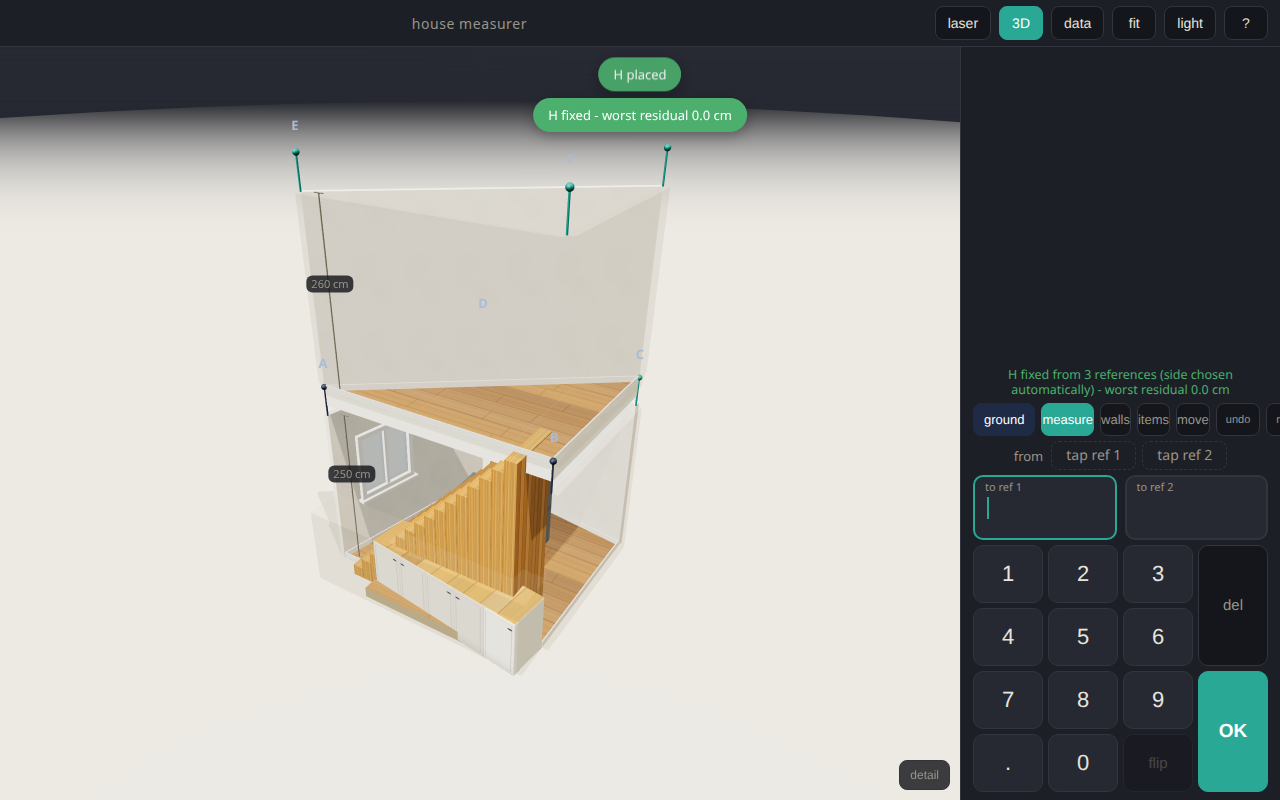
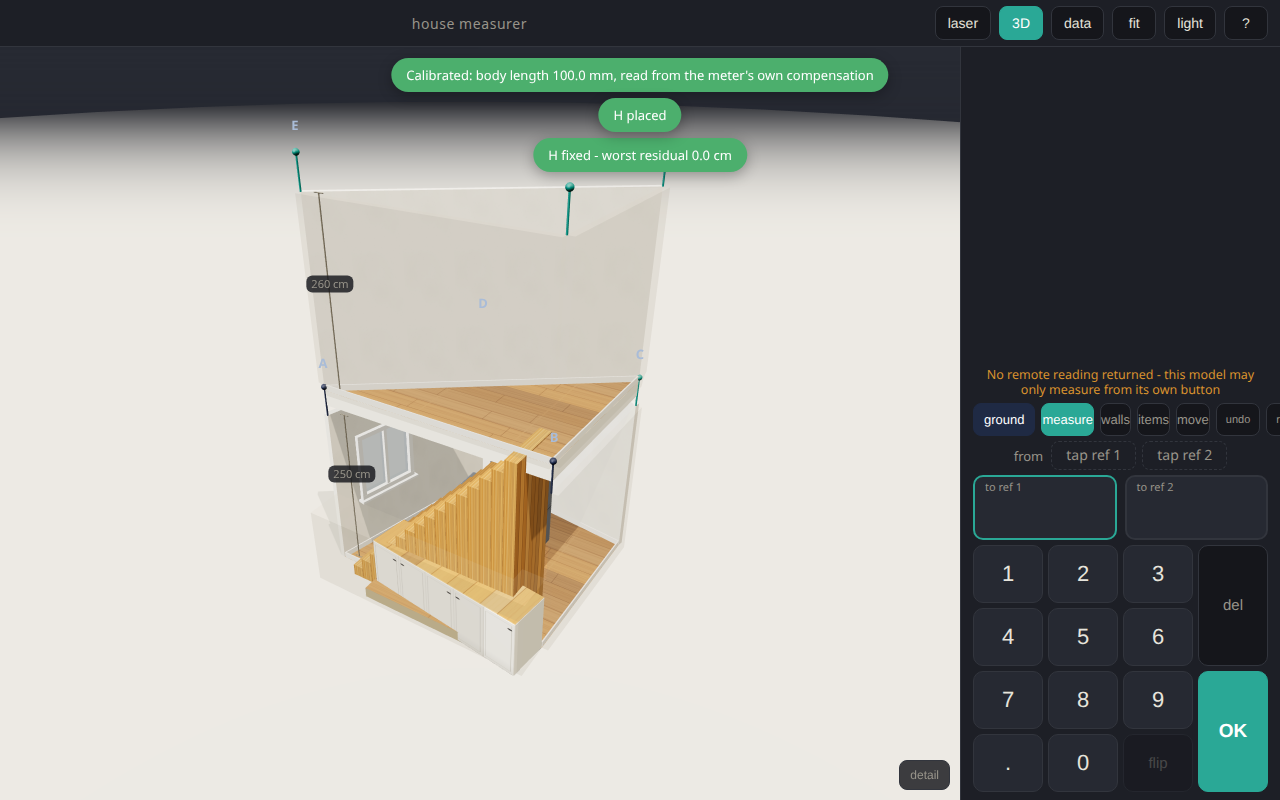
laser: one-tap offset calibration from the meter itself
The body length is not in any readable register (the settings query
returns empty), but the meter applies it to every back-edge button
reading. So the calibrate button in the laser panel derives it live:
prop the meter still, press its measure button once, the app fires a
remote shot and takes compensated-minus-raw as the offset. Plausible
results (2-35 cm) are set and persisted; anything else is rejected as
movement between the readings. Blocked while the meter reports
front-edge reference, since there is nothing to compensate there.

Measurement callbacks now carry the frame kind and pre-correction
value so the flow can tell button pushes from remote replies.

Changed region(s): [[0.3125, 0.0625, 0.6875, 0.2188], [0.7812, 0.4375, 0.9688, 0.5]]

diff --git a/index.html b/index.html
@@ -117,7 +117,9 @@
       <span class="log-name">remote shoot offset</span>
       <input id="laser-off" type="number" step="0.1" style="width:64px"> cm
       <button id="laser-setlo">set</button>
+      <button id="laser-cal" title="derive the offset from the meter itself: one button press, one remote shot">calibrate</button>
     </div>
+    <p class="dim" id="laser-cal-msg" hidden></p>
     <p class="dim" id="laser-hint">Readings land in the active input field. The shoot button (Bosch meters) fires remotely; those readings measure from the device front edge, so the offset above (its body length) is added to match back-edge readings. The meter broadcasts its reference-edge setting with every reading - if you switch it to front edge, the correction turns off by itself so button and remote readings keep agreeing.</p>
     <div class="row">
       <span class="log-name dim">recent protocol frames</span>
@@ -175,7 +177,7 @@
     <h2>bluetooth laser</h2>
     <p>Tap <b>laser</b> in the header to open the laser panel, then <b>connect</b> (Chrome, and the app must be on its https:// address or localhost). Each reading lands in the active field ready for OK. The panel also holds the remote-shoot offset and a log of recent protocol frames (copyable) so unknown meters can be given a decoder.</p>
     <p><b>Auto mode</b> (the <b>auto</b> toggle next to the reference slots, off by default): each laser reading advances the survey by itself. The number of selected references is the contract: with 2 selected, every pair of readings places a point; with 3 or 4 selected, every point takes that many readings and commits on the last one - then the next point begins automatically against the same references. The status line always names which reference to shoot next, and the phone buzzes: short tick = reading logged, triple = point placed, long = reading refused. A mis-fired shot is retracted with <b>del</b> (steps back one reading); Escape restarts the current fix. Every guard still applies: impossible pairs are refused with an explanation, flip swaps a wrong side, and undo unwinds anything.</p>
-    <p>The <b>shoot</b> button (Bosch meters) triggers a measurement remotely - the laser arms, then fires, with no button press to shake the aim. Remote readings measure from the device's FRONT edge, so a corrective offset (the body length, default 10 cm, adjustable in the laser panel) is added to match your usual back-edge readings. The device screen stays at 0 for remote shots - compare values in the app field instead. If the meter declines, the status says so.</p>
+    <p>The <b>shoot</b> button (Bosch meters) triggers a measurement remotely - the laser arms, then fires, with no button press to shake the aim. Remote readings measure from the device's FRONT edge, so a corrective offset (the body length, default 10 cm, adjustable in the laser panel) is added to match your usual back-edge readings. The device screen stays at 0 for remote shots - compare values in the app field instead. If the meter declines, the status says so. The <b>calibrate</b> button in the laser panel derives the offset from the meter itself: prop it still, press its measure button once, and the app fires a remote shot and reads the body length off the difference.</p>
     <p class="fine">Everything is saved on this device automatically. Export JSON from the log sheet for backup or to move devices.</p>
     <button id="clear-all">clear everything</button>
   </div>

diff --git a/js/main.js b/js/main.js
@@ -1834,8 +1834,9 @@ const buzz = (p) => {
 
 const laser = new LaserLink({
 
-  onMeasurement: (m) => {
+  onMeasurement: (m, meta = {}) => {
     buzz(25);
+    if (ui.laserCal) return laserCalStep(m, meta);
     const txt = m.toFixed(3).replace(/0+$/, '').replace(/\.$/, '.0');
     ui.fields[ui.active] = txt;
     const auto = ui.autoLaser === true;
@@ -1902,6 +1903,14 @@ function renderLaser() {
   refEl.textContent = ref === 'back' ? 'back edge' : ref === 'front' ? 'front edge'
     : ref ? `other (${ref})` : 'unknown';
   refEl.className = 'pill ' + (ref === 'back' ? 'on' : ref === 'front' ? 'warn' : 'off');
+  $('laser-cal').textContent = ui.laserCal ? 'cancel' : 'calibrate';
+  const calMsg = $('laser-cal-msg');
+  calMsg.hidden = !ui.laserCal;
+  if (ui.laserCal) {
+    calMsg.textContent = ui.laserCal.stage === 'button'
+      ? 'Prop the meter dead still against something solid, aim at a flat target, then press the meter\'s own measure button once.'
+      : 'Hold still - firing the remote shot...';
+  }
   $('laser-frames').textContent = laser.rawLog.length ? laser.rawLog.join('\n') : 'none yet';
 }
 
@@ -1933,6 +1942,58 @@ $('laser-copy').addEventListener('click', async () => {
   } catch {
     toast('Clipboard blocked - long-press the frame text to select it', 'warn');
   }
+});
+
+// Offset self-calibration: the meter's stored body length is not in any
+// readable register, but the meter APPLIES it to every back-edge button
+// reading. So: one compensated button reading minus one raw remote shot,
+// meter propped still in between = the constant the meter itself uses.
+function laserCalStep(m, meta) {
+  const cal = ui.laserCal;
+  if (cal.stage === 'button' && meta.kind === 'push') {
+    cal.stage = 'remote';
+    cal.push = m;
+    toast('Got the button reading - hold still...', 'good');
+    renderLaser();
+    laser.remoteTrigger();
+    cal.timer = setTimeout(() => {
+      if (ui.laserCal === cal) {
+        ui.laserCal = null;
+        toast('No remote reading came back - calibration cancelled', 'warn');
+        renderLaser();
+      }
+    }, 4000);
+    return;
+  }
+  if (cal.stage === 'remote' && meta.kind === 'remote') {
+    clearTimeout(cal.timer);
+    ui.laserCal = null;
+    const body = cal.push - meta.raw;
+    if (body > 0.02 && body < 0.35) {
+      laser.remoteOffset = Math.round(body * 10000) / 10000;
+      try { localStorage.setItem('house-measurer.laserOffset', String(laser.remoteOffset)); } catch {}
+      toast(`Calibrated: body length ${(body * 1000).toFixed(1)} mm, read from the meter's own compensation`, 'good');
+    } else {
+      toast(`Difference came out at ${(body * 1000).toFixed(0)} mm - implausible (meter moved?). Offset unchanged.`, 'err');
+    }
+    renderLaser();
+  }
+  // Anything else (a stray frame) is ignored until the expected one lands.
+}
+
+$('laser-cal').addEventListener('click', () => {
+  if (ui.laserCal) {
+    clearTimeout(ui.laserCal.timer);
+    ui.laserCal = null;
+    renderLaser();
+    return;
+  }
+  if (!laser.canTrigger) return toast('Calibration needs a connected Bosch meter', 'warn');
+  if (laser.deviceRef === 'front') {
+    return toast('Set the meter to back-edge reference first - on front edge there is nothing to compensate', 'warn');
+  }
+  ui.laserCal = { stage: 'button' };
+  renderLaser();
 });
 try {
   const lo = parseFloat(localStorage.getItem('house-measurer.laserOffset'));

diff --git a/js/laser.js b/js/laser.js
@@ -389,11 +389,13 @@ export class LaserLink {
     this.rawLog.push(hex);
     if (this.rawLog.length > 24) this.rawLog.shift();
     this.cb.onRaw?.(hex);
+    const isPush = bytes[0] === 0xc0 && bytes[1] === 0x55 && bytes[2] === 0x10 && bytes.length >= 11;
+    const isRemote = bytes[0] === 0x00 && bytes[1] === 0x04;
     // Push frames broadcast the meter's reference-edge setting in byte 3
     // (payload byte 0): 0x06 = back edge, 0x04 = front edge - confirmed
     // by flipping the setting on a real UniversalDistance 50C and
     // diffing the frames. Byte 5 is a rolling sequence counter.
-    if (bytes[0] === 0xc0 && bytes[1] === 0x55 && bytes[2] === 0x10 && bytes.length >= 11) {
+    if (isPush) {
       const ref = bytes[3] === 0x04 ? 'front' : bytes[3] === 0x06 ? 'back'
         : `0x${bytes[3].toString(16)}`;
       if (this.deviceRef && this.deviceRef !== ref) {
@@ -403,18 +405,22 @@ export class LaserLink {
     }
     let v = profile.parse(bytes);
     if (v == null) return;
+    const raw = v;
     // Remote-trigger replies (00 04 ...) always measure from the front
     // edge, so they get the body-length correction - except when the
     // meter itself is set to front edge, because then button readings
     // are front-edge too and raw remote values already match them.
-    if (this.boschChar && bytes[0] === 0x00 && bytes[1] === 0x04) {
-      if (this.deviceRef !== 'front') v += this.remoteOffset || 0;
+    if (this.boschChar && isRemote && this.deviceRef !== 'front') {
+      v += this.remoteOffset || 0;
     }
     // Meters often repeat frames; drop identical values arriving in a burst.
     const now = Date.now();
     if (this._lastValue === v && now - this._lastAt < 800) return;
     this._lastValue = v;
     this._lastAt = now;
-    this.cb.onMeasurement?.(v);
+    // The frame kind and pre-correction value ride along so the app can
+    // treat button pushes and remote replies differently (calibration
+    // derives the body length from exactly that difference).
+    this.cb.onMeasurement?.(v, { kind: isPush ? 'push' : isRemote ? 'remote' : 'other', raw });
   }
 }
